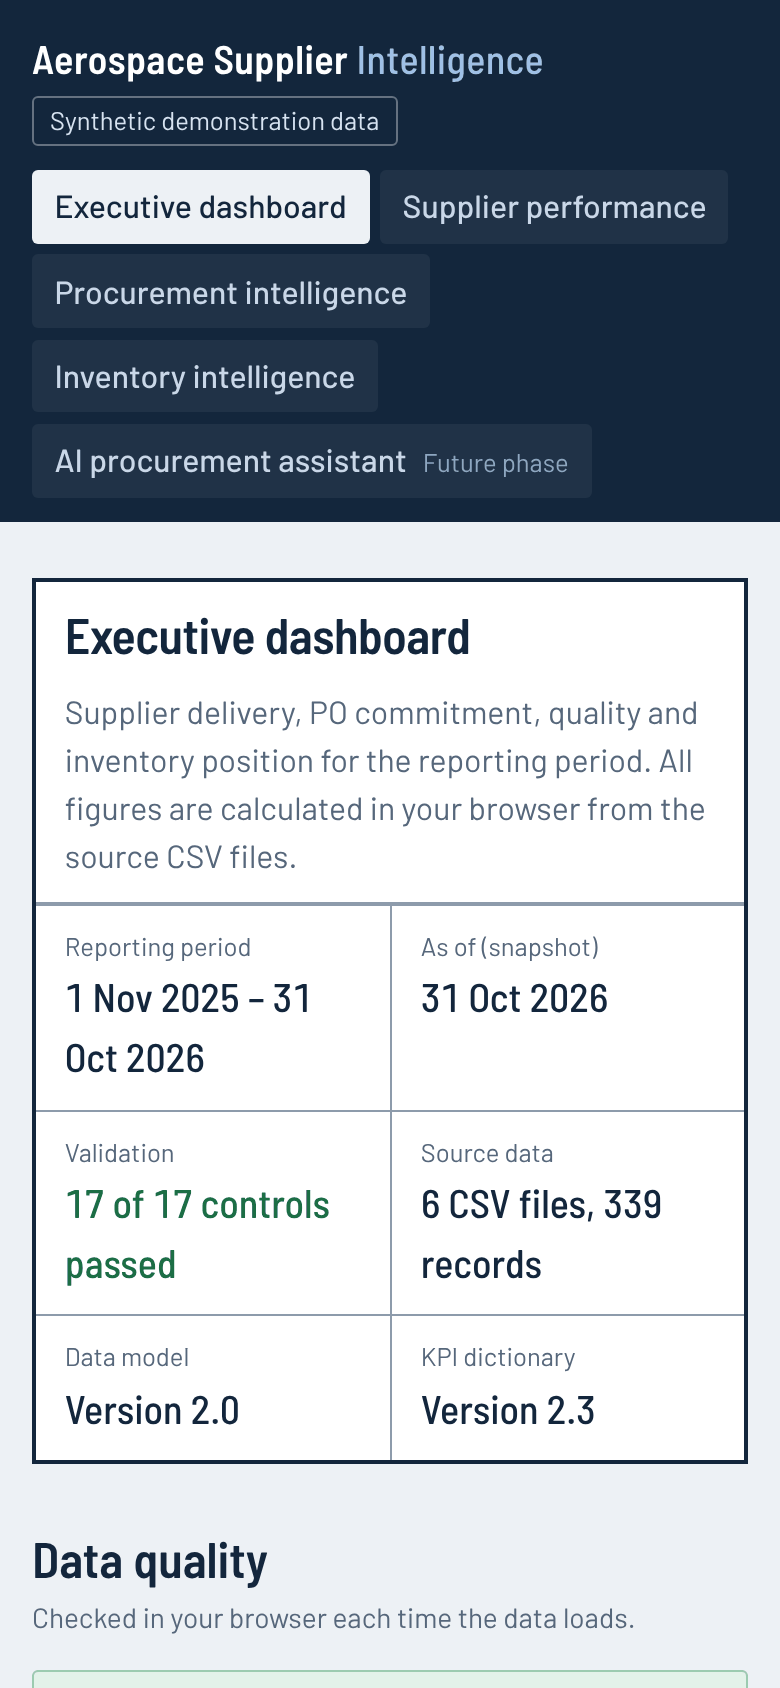
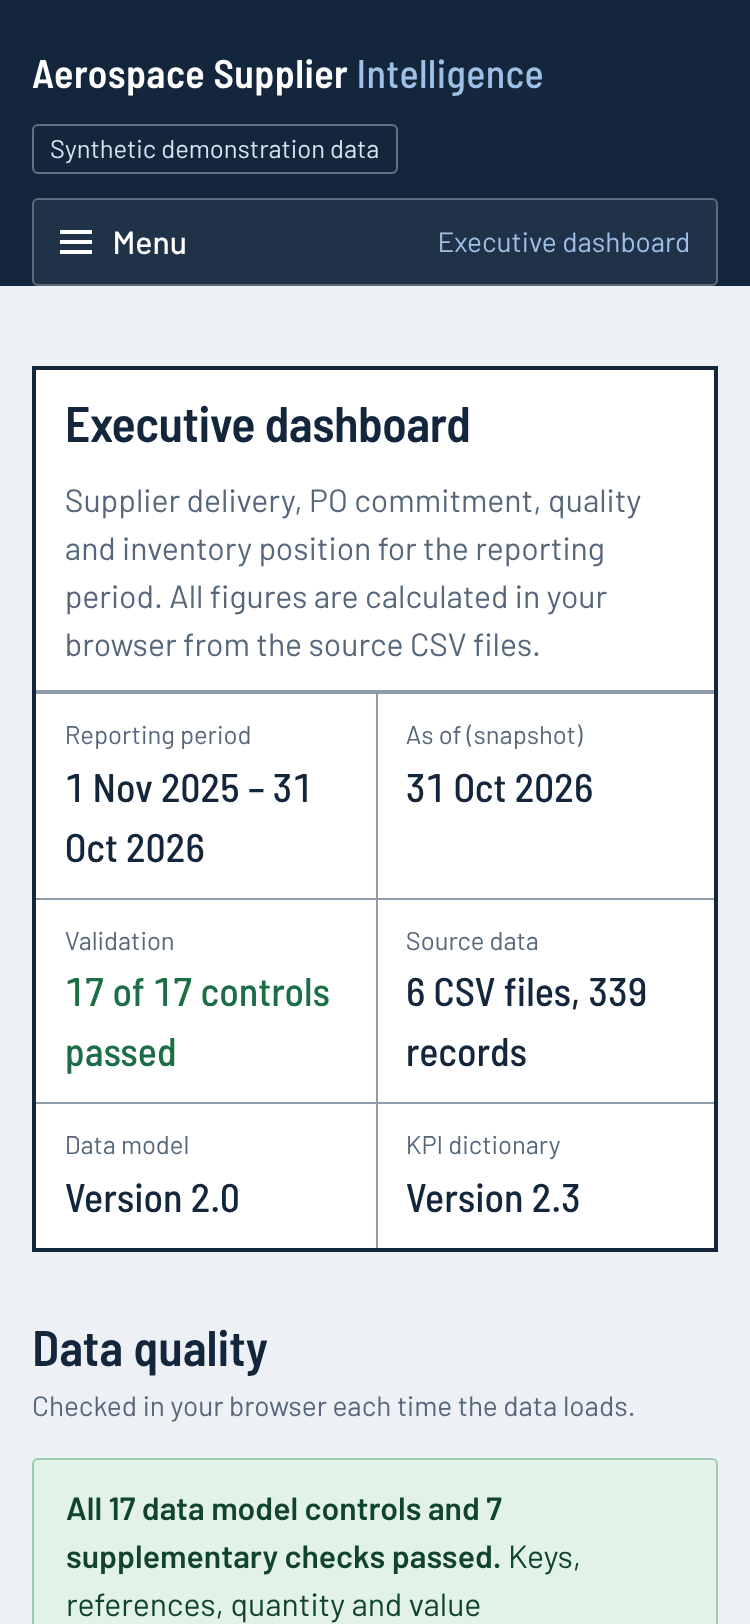
feat(mobile): collapsible menu, 44px touch targets, swipe hint, sticky-column cue
Mobile-only refinements (640px and below); desktop and tablet are pixel-identical
to the release at 768/1280/1440px.
- Collapsible module menu with accessible button (aria-expanded/controls,
  Escape returns focus, closes on navigation)
- Touch targets ~44px for nav, filters, buttons, sort headers and table links
- Inventory 'Swipe sideways' hint; table wrapper is a focusable region
- Edge shadow on the fixed Material column once a table is scrolled
- 6 new mobile tests (280/280 pass); screenshots 08-11; report
No changes to KPI calculations, CSV files or Data Model v2.0.

Claude-Session: https://claude.ai/code/session_01Pi1d1oEFncr1ZxzmfcxFzM

Changed region(s): [[0.0, 0.0308, 1.0, 1.0]]

diff --git a/tests/inventory-tests.js b/tests/inventory-tests.js
@@ -16,10 +16,10 @@ import { EXPECTED_INVENTORY as EI } from './kpi-expected-values.js';
 const AS_OF = CONFIG.reportingAsOfDate;
 const near = (a, b, t = 0.005) => Math.abs(a - b) <= t;
 
-function openApp(hash) {
+function openApp(hash, width = 1366) {
   return new Promise((resolve, reject) => {
     const f = document.createElement('iframe');
-    f.style.cssText = 'width:1366px;height:900px;position:absolute;left:-10000px;top:0';
+    f.style.cssText = `width:${width}px;height:900px;position:absolute;left:-10000px;top:0`;
     f.src = `../index.html${hash}`;
     const t0 = Date.now();
     f.onload = () => {
@@ -202,6 +202,84 @@ function altered(name, where, set2) {
   const rows = ds.rows.map((r) => { if (!where(r)) return r; const c = { ...r, ...set2 }; Object.defineProperty(c, '_line', { value: r._line, enumerable: false }); return c; });
   return { ...lr, datasets: { ...lr.datasets, [name]: { ...ds, rows } } };
 }
+
+/* ---------- Mobile usability (Stage 8 refinement) ---------- */
+
+const shown = (el) => !!el && el.getBoundingClientRect().height > 0;
+let mFrame, mDoc;
+
+test('Mobile', 'Desktop width: menu button and swipe hint hidden, all five module links visible', async () => {
+  doc.querySelector('#module-nav-list a[data-module="inventory"]').click();
+  assert(await waitFor(() => doc.querySelector('[data-table="inventory"]')));
+  assert(!shown(doc.getElementById('nav-toggle')), 'menu button visible on desktop');
+  assert(!shown(doc.querySelector('[data-hint="inventory"]')), 'swipe hint visible on desktop');
+  assertEqual([...doc.querySelectorAll('#module-nav-list a')].filter(shown).length, 5);
+});
+
+test('Mobile', '375px: menu collapsed by default; button names the current module and is at least 44px', async () => {
+  mFrame = await openApp('#/inventory', 375);
+  mDoc = mFrame.contentDocument;
+  const b = mDoc.getElementById('nav-toggle');
+  assert(shown(b), 'menu button not shown');
+  assertEqual(b.getAttribute('aria-expanded'), 'false');
+  assertEqual(b.getAttribute('aria-controls'), 'module-nav-list');
+  assertEqual(mDoc.getElementById('nav-current').textContent, 'Inventory intelligence');
+  assertEqual([...mDoc.querySelectorAll('#module-nav-list a')].filter(shown).length, 0, 'links visible while collapsed');
+  assert(b.getBoundingClientRect().height >= 44, `button ${b.getBoundingClientRect().height}px`);
+  // Larger touch targets must not collapse word spacing in the wordmark or in links.
+  assertEqual(mDoc.querySelector('.wordmark').innerText.replace(/\s+/g, ' '), 'Aerospace Supplier Intelligence');
+  const link = mDoc.querySelector('[data-table="inventory"] a.link-plain');
+  assert(link.getBoundingClientRect().height >= 44, `supplier link ${link.getBoundingClientRect().height}px`);
+});
+
+test('Mobile', '375px: menu opens, links are at least 44px, Escape closes it and returns focus', async () => {
+  const b = mDoc.getElementById('nav-toggle');
+  b.click();
+  assertEqual(b.getAttribute('aria-expanded'), 'true');
+  const links = [...mDoc.querySelectorAll('#module-nav-list a')].filter(shown);
+  assertEqual(links.length, 5);
+  assert(links.every((a) => a.getBoundingClientRect().height >= 44), 'link below 44px');
+  links[0].focus();
+  mDoc.dispatchEvent(new mFrame.contentWindow.KeyboardEvent('keydown', { key: 'Escape', bubbles: true }));
+  assertEqual(b.getAttribute('aria-expanded'), 'false');
+  assert(mDoc.activeElement === b, `focus not returned to the menu button (on ${mDoc.activeElement?.tagName})`);
+});
+
+test('Mobile', '375px: choosing a module navigates and closes the menu', async () => {
+  const b = mDoc.getElementById('nav-toggle');
+  b.click();
+  mDoc.querySelector('#module-nav-list a[data-module="procurement"]').click();
+  assert(await waitFor(() => mFrame.contentWindow.location.hash === '#/procurement' && mDoc.querySelector('[data-table="register"]')));
+  assertEqual(b.getAttribute('aria-expanded'), 'false');
+  assertEqual(mDoc.getElementById('nav-current').textContent, 'Procurement intelligence');
+  mDoc.querySelector('#module-nav-list a[data-module="inventory"]').click();
+  assert(await waitFor(() => mDoc.querySelector('[data-table="inventory"]')));
+});
+
+test('Mobile', '375px: swipe hint above the table; table is a focusable region; Material column and header stay fixed', async () => {
+  const hint = mDoc.querySelector('[data-hint="inventory"]');
+  const wrap = mDoc.querySelector('[data-table="inventory"]').closest('.table-wrap');
+  assert(shown(hint), 'hint not shown');
+  assert(hint.textContent.includes('Swipe sideways to see all 10 columns'), hint.textContent);
+  assert(hint.getBoundingClientRect().bottom <= wrap.getBoundingClientRect().top, 'hint not above the table');
+  assertEqual(wrap.getAttribute('role'), 'region');
+  assertEqual(wrap.getAttribute('tabindex'), '0');
+  assert(wrap.scrollWidth > wrap.clientWidth, 'table does not scroll sideways at 375px');
+  const body = wrap.querySelector('tbody th.sticky'), head = wrap.querySelector('thead th.sticky');
+  const before = [body.getBoundingClientRect().left, head.getBoundingClientRect().left];
+  wrap.scrollLeft = 250;
+  assert(await waitFor(() => wrap.classList.contains('is-scrolled')), 'edge shadow class not set');
+  assertEqual(body.getBoundingClientRect().left, before[0], 'Material cell moved');
+  assertEqual(head.getBoundingClientRect().left, before[1], 'Material header moved');
+  wrap.scrollLeft = 0;
+  assert(await waitFor(() => !wrap.classList.contains('is-scrolled')), 'edge shadow class not cleared');
+});
+
+test('Mobile', '375px: filter, search, checkbox, reset and sort controls are at least 44px', async () => {
+  const sel = ['.controls select', '.controls input[type=search]', '.control--check', '.controls .button-quiet', '[data-table="inventory"] .sort'];
+  for (const s of sel) for (const el of mDoc.querySelectorAll(s)) assert(el.getBoundingClientRect().height >= 44, `${s} ${el.getBoundingClientRect().height}px`);
+  mFrame.remove();
+});
 
 test('Rules', 'Not hardcoded: lowering MAT-001 available stock below safety stock changes the page', async () => {
   const h = render(altered('inventory_snapshot', (r) => r.material_id === 'MAT-001', { allocated_qty: 69, available_qty: 10, available_inventory_value_usd: 28500 }));

diff --git a/src/css/app.css b/src/css/app.css
@@ -105,6 +105,8 @@ a:focus-visible, button:focus-visible, summary:focus-visible, [tabindex]:focus-v
 .module-nav a[aria-current='page'] { background: var(--paper); color: var(--ink); }
 .module-nav .stage { font-size: var(--t-xs); color: #8fa7c4; font-weight: 400; }
 .module-nav a[aria-current='page'] .stage { color: var(--steel); }
+/* Mobile menu button: displayed only at 640px and below (see Responsive). */
+.nav-toggle { display: none; }
 
 /* ---------- Page ---------- */
 main { max-width: var(--page); margin: 0 auto; padding: 1.75rem var(--gap) 3rem; }
@@ -238,6 +240,13 @@ table.data--compare thead th.sticky { z-index: 3; background: #eef2f6; }
 table.data--compare tbody tr:hover > * { background: #f6f9fc; }
 table.data--compare tbody tr.is-selected > * { background: var(--signal-soft); }
 table.data--compare td { white-space: nowrap; }
+/* Edge shadow on the sticky column once the table has been scrolled sideways (class set in app.js). */
+.table-wrap.is-scrolled table.data--compare .sticky::after {
+  content: ''; position: absolute; top: 0; bottom: -1px; right: -8px; width: 8px; pointer-events: none;
+  background: linear-gradient(to right, rgba(19, 38, 60, 0.14), rgba(19, 38, 60, 0));
+}
+.table-wrap--bounded:focus-visible { outline: 3px solid var(--signal); outline-offset: 2px; }
+.swipe-hint { display: none; }
 .sort { all: unset; cursor: pointer; display: inline; text-align: inherit; gap: 0.3rem; align-items: baseline; font-weight: 600; color: var(--steel); }
 .sort:focus-visible { outline: 3px solid var(--signal); outline-offset: 2px; }
 th[aria-sort='ascending'] .sort, th[aria-sort='descending'] .sort { color: var(--ink); }
@@ -388,6 +397,37 @@ tr.is-service > * { background: #f6f8fa; color: var(--steel); }
   .bridge__track { grid-column: 1 / -1; grid-row: 2; }
   .notice__body { padding-left: 1rem; }
   .chart-box { height: 360px; }
+
+  /* Collapsible module menu. */
+  .nav-toggle {
+    display: flex; align-items: center; gap: 0.65rem; width: 100%; min-height: 44px; margin: 0.75rem 0;
+    padding: 0 0.8rem; font: inherit; font-weight: 500; color: #fff; cursor: pointer; text-align: left;
+    background: rgba(255, 255, 255, 0.06); border: 1px solid rgba(255, 255, 255, 0.28); border-radius: var(--radius);
+  }
+  .nav-toggle:focus-visible { outline: 3px solid #9fc0e6; outline-offset: 2px; }
+  .nav-toggle__icon { position: relative; width: 16px; height: 2px; background: currentColor; box-shadow: 0 -5px 0 currentColor, 0 5px 0 currentColor; flex: none; }
+  .nav-toggle[aria-expanded='true'] .nav-toggle__icon { box-shadow: none; transform: rotate(45deg); }
+  .nav-toggle[aria-expanded='true'] .nav-toggle__icon::after { content: ''; position: absolute; inset: 0; background: currentColor; transform: rotate(90deg); }
+  .nav-toggle__current { margin-left: auto; color: #9fc0e6; font-size: var(--t-sm); font-weight: 400; }
+  .module-nav[data-menu='closed'] ul { display: none; }
+  .module-nav ul { flex-direction: column; gap: 0.25rem; margin-top: 0; }
+  .module-nav a { min-height: 44px; align-items: center; padding: 0 0.8rem; }
+
+  /* Touch targets of about 44px for controls; desktop sizes are unchanged. */
+  .wordmark { display: inline-block; line-height: 44px; }
+  .control select, .control input { min-height: 44px; }
+  .control--check { min-height: 44px; padding-bottom: 0; }
+  .control--check input { width: 1.25rem; height: 1.25rem; }
+  .segmented label { display: inline-flex; align-items: center; min-height: 44px; }
+  .button-quiet { min-height: 44px; }
+  .link-button, .link-plain { display: inline-block; box-sizing: border-box; min-height: 44px; padding: 0.25rem 0; }
+  table.data .sort { display: inline-flex; align-items: flex-end; min-height: 44px; min-width: 44px; padding-bottom: 0.1rem; }
+  details.notice > summary { min-height: 44px; align-items: center; }
+
+  /* Sideways-scroll hint above the inventory table. */
+  .swipe-hint { display: flex; align-items: center; gap: 0.5rem; margin: 0 0 0.4rem; font-size: var(--t-sm); color: var(--steel); }
+  .swipe-hint[hidden] { display: none; }
+  .swipe-hint__icon { font-size: 1.1rem; line-height: 1; color: var(--signal); }
 }
 
 @media (prefers-reduced-motion: reduce) {

diff --git a/src/js/app.js b/src/js/app.js
@@ -78,7 +78,41 @@ function markActive(id) {
     if (a.dataset.module === id) a.setAttribute('aria-current', 'page');
     else a.removeAttribute('aria-current');
   }
+  const current = document.getElementById('nav-current');
+  if (current) current.textContent = moduleById(id)?.name ?? '';
 }
+
+/* ---------- mobile menu (the button is only displayed on narrow screens) ---------- */
+
+const navToggle = document.getElementById('nav-toggle');
+
+function setMenuOpen(open, { returnFocus = false } = {}) {
+  if (!navToggle) return;
+  navToggle.setAttribute('aria-expanded', String(open));
+  navToggle.closest('.module-nav').dataset.menu = open ? 'open' : 'closed';
+  if (!open && returnFocus) navToggle.focus();
+}
+
+if (navToggle) {
+  setMenuOpen(false);
+  navToggle.addEventListener('click', () => setMenuOpen(navToggle.getAttribute('aria-expanded') !== 'true'));
+  nav.addEventListener('click', (e) => { if (e.target.closest('a')) setMenuOpen(false); });
+  document.addEventListener('keydown', (e) => {
+    if (e.key === 'Escape' && navToggle.getAttribute('aria-expanded') === 'true') setMenuOpen(false, { returnFocus: true });
+  });
+}
+
+/* ---------- scroll-edge shadow on sticky-column tables ---------- */
+
+// Scroll events do not bubble, so listen in the capture phase for any table wrapper.
+document.addEventListener(
+  'scroll',
+  (e) => {
+    const w = e.target;
+    if (w instanceof HTMLElement && w.classList.contains('table-wrap')) w.classList.toggle('is-scrolled', w.scrollLeft > 0);
+  },
+  { capture: true, passive: true },
+);
 
 function route() {
   const id = currentModuleId();

diff --git a/src/js/views/inventory.js b/src/js/views/inventory.js
@@ -203,7 +203,8 @@ function tableSection(m) {
       </div>
       <p class="result-count" data-count="inventory" aria-live="polite">Showing ${integer(rows.length)} of ${integer(shown)} ${f.showService ? 'materials' : 'physical materials'}.</p>
       ${rows.length ? '' : '<p class="empty" data-empty="inventory">No materials match these filters. <button type="button" class="link-button" data-action="reset-inventory">Reset table</button></p>'}
-      <div class="table-wrap table-wrap--bounded"${rows.length ? '' : ' hidden'}><table class="data data--compare" data-table="inventory"><thead><tr>${head}</tr></thead><tbody>${body}</tbody></table></div>
+      <p class="swipe-hint" id="inv-swipe-hint" data-hint="inventory"${rows.length ? '' : ' hidden'}><span class="swipe-hint__icon" aria-hidden="true">⇆</span> Swipe sideways to see all ${COLS.length} columns. The Material column stays in place.</p>
+      <div class="table-wrap table-wrap--bounded" role="region" aria-label="Material inventory table" tabindex="0"${rows.length ? '' : ' hidden'}><table class="data data--compare" data-table="inventory"><thead><tr>${head}</tr></thead><tbody>${body}</tbody></table></div>
       <p class="kpi__note">Material criticality comes from the material record; supplier criticality from suppliers.csv. They can differ (for example, a Critical material from a High-criticality supplier). Stock position uses available stock; supplied status uses on-hand stock. SERVICE materials hold no physical stock and are excluded from inventory KPIs.</p>
     </section>`;
 }

diff --git a/index.html b/index.html
@@ -19,6 +19,11 @@
       <span class="synthetic-flag">Synthetic demonstration data</span>
     </div>
     <nav class="module-nav" aria-label="Modules">
+      <button type="button" class="nav-toggle" id="nav-toggle" aria-expanded="false" aria-controls="module-nav-list">
+        <span class="nav-toggle__icon" aria-hidden="true"></span>
+        <span class="nav-toggle__label">Menu</span>
+        <span class="nav-toggle__current" id="nav-current"></span>
+      </button>
       <ul id="module-nav-list"></ul>
     </nav>
   </header>

diff --git a/tests/reports/stage-08-mobile-usability.md b/tests/reports/stage-08-mobile-usability.md
@@ -1,0 +1,104 @@
+# Test Report – Stage 8 Refinement: Mobile Usability
+
+**Project:** Aerospace Supplier Intelligence Platform  
+**Stage:** Phase 2, Stage 8, final mobile usability refinement before portfolio release  
+**Date:** 2026-11-14  
+**Tested by:** Claude (automated runs in headless Chrome 153 via Playwright)  
+**Result:** **Regression suite 280 / 280** (data layer 54, KPI engine 88, Executive dashboard 38, supplier 44, procurement 33, inventory 23, of which 6 are new). **Viewport checks 81 / 81** at 375, 400, 768, 1280 and 1440px. **Desktop and tablet unchanged:** 18 / 18 full-page screenshots (6 routes at 768, 1280 and 1440px) are pixel-identical to the release before this change.
+
+## 1. Changes
+
+| # | Requirement | Delivered as |
+|---|---|---|
+| 1 | Sticky first Material column, including its header | The column was already fixed during sideways scrolling: at 375px it stays at x = 17 after a 300px scroll. Two additions help users notice this. A shadow appears on the column's right edge once the table has been scrolled, and clears at the start. The table is also a labelled, focusable region (`role="region"`, `tabindex="0"`), so keyboard users can scroll it with the arrow keys. |
+| 2 | Touch targets of about 44px on mobile | At 640px and below, these are at least 44px tall: menu button, module links, filter selects, search, the SERVICE checkbox row, reset buttons, segmented options, table sort headers, table supplier links, notice toggles and the wordmark. Above 640px, all sizes are unchanged. |
+| 3 | Mobile-only "Swipe to see more" hint | "⇆ Swipe sideways to see all 10 columns. The Material column stays in place." It sits above the inventory table at 640px and below, is hidden on wider screens, and is hidden when filters leave no rows. |
+| 4 | Collapsible mobile navigation | At 640px and below, a menu button replaces the always-open module list. The button's label shows the current module. It sets `aria-expanded` and `aria-controls`. Escape closes the menu and returns focus to the button. Choosing a module closes the menu, then focus moves to the page heading as before. Above 640px the button is hidden and the five tabs show as before. |
+
+**Files changed:**
+
+- `index.html`: the menu button
+- `src/css/app.css`: rules inside the existing 640px block, plus the edge shadow and focus outline
+- `src/js/app.js`: menu state and the scroll-edge class
+- `src/js/views/inventory.js`: the hint, and the region attributes on the table wrapper
+- `tests/inventory-tests.js`: 6 tests
+
+**Unchanged:** KPI calculations, CSV files, Data Model v2.0, the KPI Dictionary, and module content and behaviour.
+
+## 2. Viewport Checks (375, 400, 768, 1280, 1440px)
+
+At each width:
+
+- **All six routes:** no horizontal page overflow, and no `NaN` or `undefined` text.
+- **Menu:** button shown and collapsed at 375 and 400; hidden at 768 and above, where all five links are visible.
+- **Swipe hint:** shown at 375 and 400; hidden at 768 and above.
+- **Inventory table:**
+  - The Material column and its header keep the same left position after a sideways scroll.
+  - Other cells pass beneath the fixed column.
+  - The edge shadow appears after scrolling and clears at the start.
+  - The table region takes focus, and ArrowRight scrolls it.
+- **Filter:** "Below safety stock" shows the 5 expected materials (MAT-004, -006, -010, -011, -015).
+- **Sort:** sorting by on-hand value with the keyboard sets `aria-sort` and keeps focus. Reset restores 23 materials.
+- **Keyboard menu (375 and 400):**
+  - Enter opens the menu.
+  - Tab moves into the first link.
+  - Escape closes the menu and focuses the button.
+  - Choosing a module navigates, closes the menu, updates the label and focuses the heading.
+- **Errors:** no console or page errors.
+
+Touch-target heights at 375px (smallest of each type):
+
+| Element | Height |
+|---|---|
+| Menu button | 44 |
+| Module links | 44 |
+| Selects | 44 |
+| Search | 44 |
+| SERVICE checkbox row | 50 |
+| Reset | 44 |
+| Sort headers | 46 |
+| Supplier links | 44 |
+| Wordmark | 44 |
+
+At 768px and above, these heights are unchanged from the release (for example, selects 32 and sort headers 18).
+
+## 3. New Regression Tests (`tests/inventory-tests.js`, group "Mobile")
+
+1. Desktop width: menu button and hint hidden; all five links visible.
+2. 375px, closed state:
+   - The menu is collapsed.
+   - The button names the current module and is at least 44px tall.
+   - The wordmark keeps its word spacing.
+   - Table links are at least 44px tall.
+3. 375px, open state: the menu opens with links of at least 44px; Escape closes it and returns focus to the button.
+4. 375px, navigation: choosing a module navigates and closes the menu.
+5. 375px, table:
+   - The hint sits above the table.
+   - The table is a focusable region.
+   - The Material cell and its header stay fixed.
+   - The edge-shadow class is set and then cleared.
+6. 375px, controls: every filter, search, checkbox, reset and sort control is at least 44px tall.
+
+**Mutation check:** three bugs were planted in a copy, and each was caught by one failing test:
+
+- the menu never collapses
+- Escape does not return focus
+- the Material column is not sticky
+
+While writing these tests, two problems were found and fixed:
+
+- **Unreliable focus test:** the first version of the focus test compared DOM elements with `assertEqual`. That function compares JSON, and every element serialises to `{}`, so the test could not fail. It now compares the elements directly.
+- **Lost word spacing:** an early CSS version used flex layout for the larger links. Flex drops the space between "Supplier" and "Intelligence", and between a supplier ID and its name. This was caught in screenshot review. Those elements now use inline-block, and a test guards the wordmark spacing.
+
+## 4. Screenshots (`assets/screenshots/`, 375 × 812 at 2× scale)
+
+- `08-mobile-executive.png`: updated; collapsed menu.
+- `09-mobile-procurement.png`: updated.
+- `10-mobile-inventory-table.png`: new; swipe hint, and the table scrolled sideways with the Material column fixed and the edge shadow visible.
+- `11-mobile-menu-open.png`: new; menu open with the current module highlighted.
+
+## 5. Limits
+
+- Narrow widths were emulated in desktop Chrome with touch enabled. They were not tested on physical phones, and not in Safari or Firefox.
+- Screen-reader announcements were not tested with assistive technology.
+- The hint follows a width breakpoint (640px). It does not detect touch, so a narrow desktop window also shows it.

diff --git a/README.md b/README.md
@@ -38,7 +38,7 @@
 | Inventory intelligence | Six inventory KPIs, status on both stock bases, searchable material table with supplier and material criticality | [View](assets/screenshots/06-inventory-intelligence.png) |
 | AI procurement assistant | Planned for a later phase, through a secure backend; not part of this release | — |
 
-Mobile layouts: [Executive](assets/screenshots/08-mobile-executive.png), [Procurement](assets/screenshots/09-mobile-procurement.png). Data quality: [View](assets/screenshots/07-data-quality.png).
+Mobile layouts: [Executive](assets/screenshots/08-mobile-executive.png), [Procurement](assets/screenshots/09-mobile-procurement.png), [inventory table with fixed Material column](assets/screenshots/10-mobile-inventory-table.png), [module menu](assets/screenshots/11-mobile-menu-open.png). On phones the module menu collapses behind a menu button, controls are at least 44px tall, and wide tables keep their first column in place while scrolling sideways. Data quality: [View](assets/screenshots/07-data-quality.png).
 
 ## How to use it
 
@@ -82,7 +82,7 @@ Known, documented data conditions are shown on screen rather than corrected sile
 
 ## Quality assurance
 
-**274 automated browser tests**, all passing in Chrome at release. Each suite is an ordinary web page that shows pass or fail:
+**280 automated browser tests**, all passing in Chrome at release. Each suite is an ordinary web page that shows pass or fail:
 
 | Suite | Tests | Covers |
 |---|---:|---|
@@ -91,11 +91,11 @@ Known, documented data conditions are shown on screen rather than corrected sile
 | [`tests/dashboard-tests.html`](tests/dashboard-tests.html) | 38 | Executive dashboard, navigation, failure handling |
 | [`tests/supplier-tests.html`](tests/supplier-tests.html) | 44 | Supplier comparison, sorting, filtering, detail, sample-size rule |
 | [`tests/procurement-tests.html`](tests/procurement-tests.html) | 33 | Bridge, ageing, concentration, commitment table, expediting register |
-| [`tests/inventory-tests.html`](tests/inventory-tests.html) | 17 | Inventory KPIs, stock bases, material table |
+| [`tests/inventory-tests.html`](tests/inventory-tests.html) | 23 | Inventory KPIs, stock bases, material table, mobile menu, touch targets and sideways scrolling at 375px |
 
 Each stage also included a mutation check: bugs were planted deliberately to confirm the tests catch them. Stage reports with screenshots are in [`tests/reports/`](tests/reports/).
 
-All 274 tests also pass when run from the live site. Anyone can open the test pages above in a browser and run them.
+All 274 tests that existed at deployment also passed when run from the live site; the 6 mobile tests were added afterwards ([`tests/reports/stage-08-mobile-usability.md`](tests/reports/stage-08-mobile-usability.md)). Anyone can open the test pages above in a browser and run them.
 
 **Testing limits:** automated tests ran in Chrome. Firefox, Safari and physical devices were not part of the automated runs. Live-site checks are recorded in [`tests/reports/stage-08-deployment.md`](tests/reports/stage-08-deployment.md).
 

diff --git a/docs/portfolio-guide.md b/docs/portfolio-guide.md
@@ -49,7 +49,7 @@ A supplier intelligence dashboard that turns raw supplier, PO, delivery, quality
 | Question | Short answer |
 |---|---|
 | Is this real company data? | No. All data is synthetic and was designed for this project. |
-| How are the numbers checked? | 274 automated browser tests. KPI values are checked against a separate, independent calculation, and deliberate bugs were planted to prove the tests catch them. |
+| How are the numbers checked? | 280 automated browser tests. KPI values are checked against a separate, independent calculation, and deliberate bugs were planted to prove the tests catch them. |
 | Why no OTIF? | The data does not hold original commitment dates or promise history, so a defensible OTIF cannot be calculated. Delivery-event OTD is shown instead and labelled as such. |
 | Why not show spend? | There is no invoice data. All values are PO line values, and the dashboard labels them that way. |
 | What tools were used? | Plain HTML, CSS and JavaScript on GitHub Pages, with Chart.js and Papa Parse. No server, no paid services and no API keys. |
